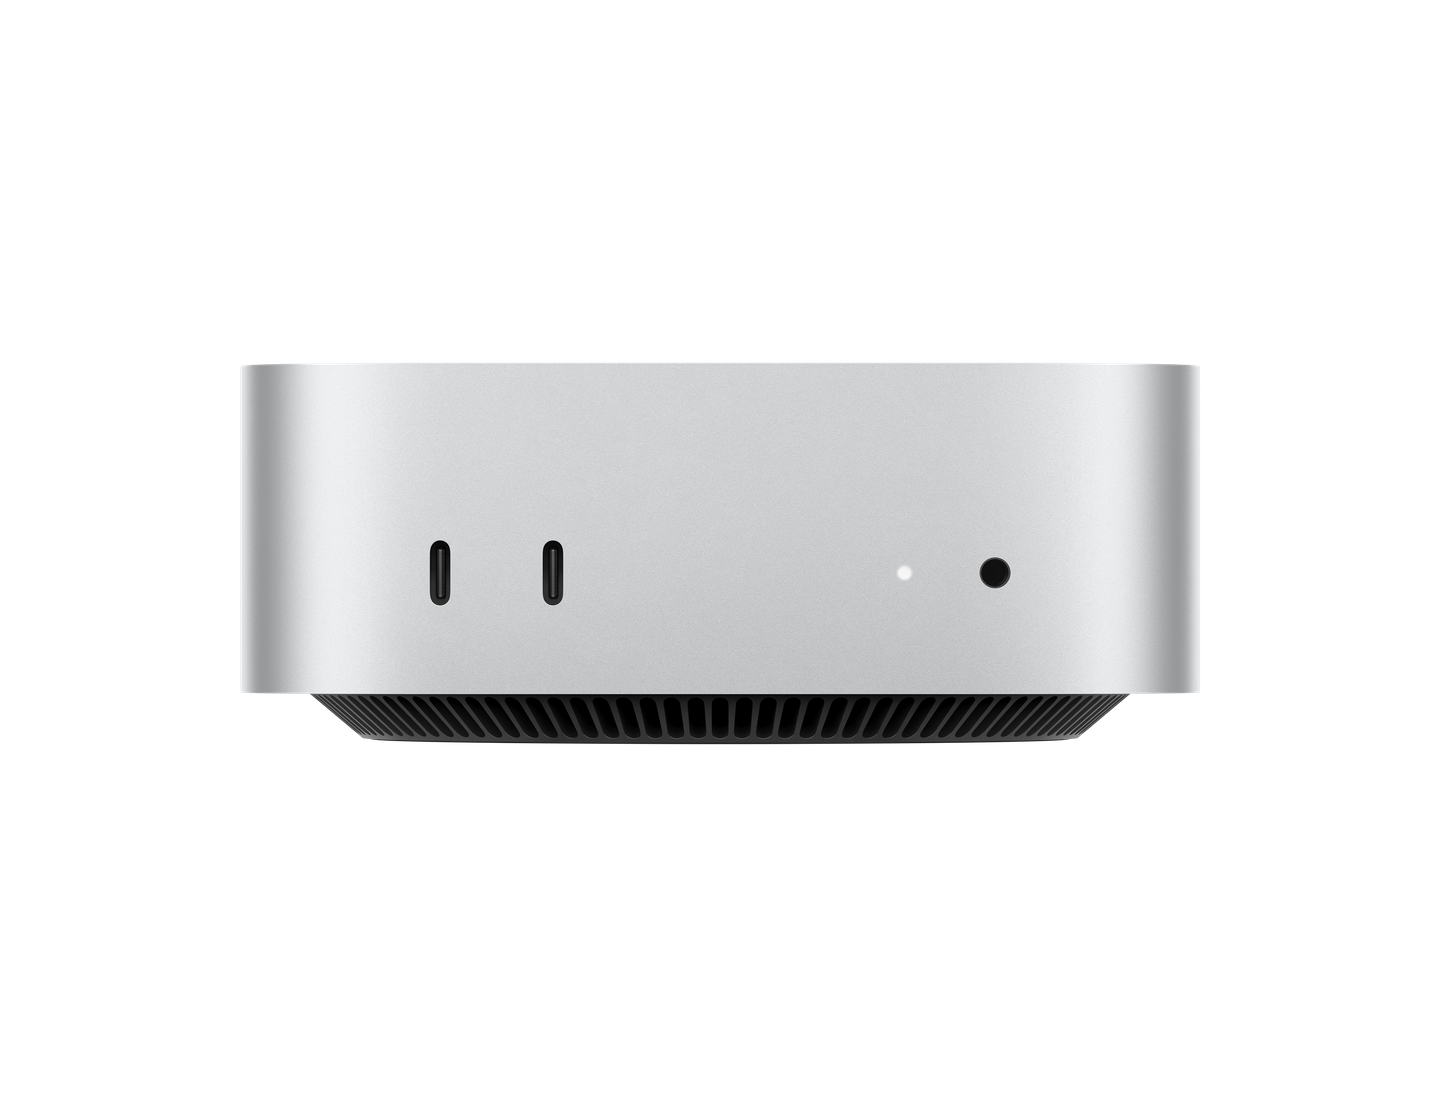
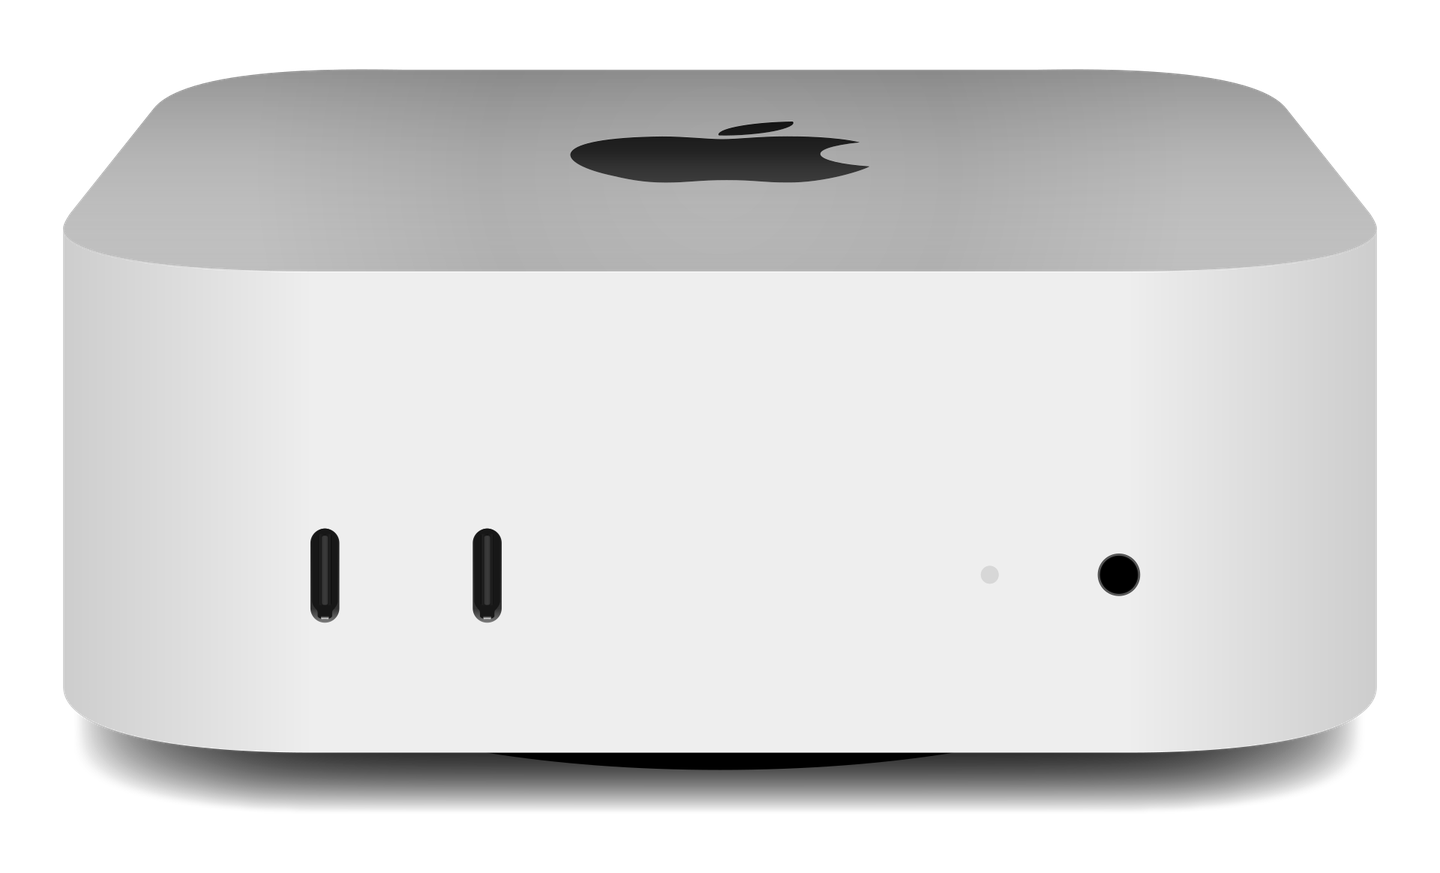
Show the 2024 Mac mini from the same raised front angle as the M1 and M2 Mac mini

diff --git a/web/src/components/hardware-photos.test.ts b/web/src/components/hardware-photos.test.ts
@@ -52,7 +52,6 @@ it("contains distinct professional product photographs and unambiguous matches",
   expect(new Set(identities).size).toBe(identities.length)
   for (const entry of hardwarePhotoInventory) {
     expect(entry.source).toMatch(/^https:\/\//)
-    expect(entry.source).not.toContain("wikimedia")
     expect(entry.imageUrl).toMatch(/^https:\/\//)
     expect(entry.manufacturer).toBeTruthy()
     expect(entry.src).toBeTruthy()

diff --git a/assets/hardware/OPTIMIZATION.md b/assets/hardware/OPTIMIZATION.md
@@ -10,7 +10,7 @@ Lossless conversion alone would reduce the collection to about 14 MB. Existing c
 
 ## Subsequent quality upgrade
 
-The 2024 Mac mini was subsequently replaced with Apple’s original October 2024 high-resolution render. Its visible hardware is now 965 × 387 pixels instead of 280 × 112. The transparent lossless WebP is 161,464 bytes; the current collection totals 7,721,706 bytes (7.72 MB). The table below and `optimization-audit.json` describe the earlier compression pass; `photo-audit.json` records the current assets.
+The 2024 Mac mini now uses the elevated front-angle illustration from Wikimedia Commons (CC0), rendered at 1440 × 873 so its angle matches the M1/M2 Mac mini photo. Its visible hardware is 1318 × 747 pixels. The transparent lossless WebP is 30,172 bytes; the current collection totals 7,929,280 bytes (7.93 MB). The table below and `optimization-audit.json` describe the earlier compression pass; `photo-audit.json` records the current assets.
 
 Mac Studio was also upgraded to Apple’s original high-resolution front render, retaining 964 × 473 pixels of visible hardware (previously 434 × 212) in a 374,802-byte lossless WebP. After both upgrades, all 44 photos total 8,060,572 bytes (8.06 MB).
 
